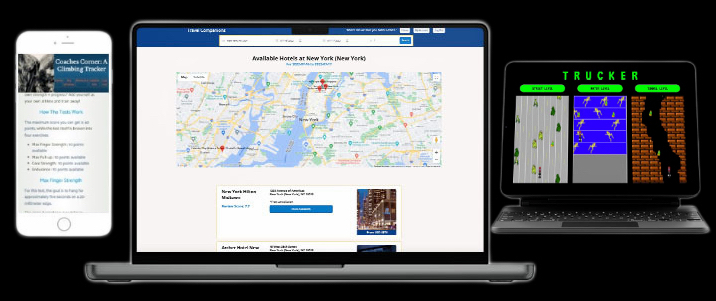
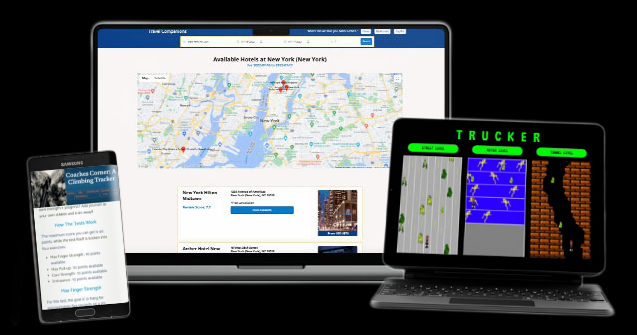
New HomePage image showcasing projects

diff --git a/src/index.css b/src/index.css
@@ -72,6 +72,6 @@
     }
     #innerCont {
         width: 100vw !important;
-        height: 25vh !important;
+        height: 35vh !important;
     }
 }
